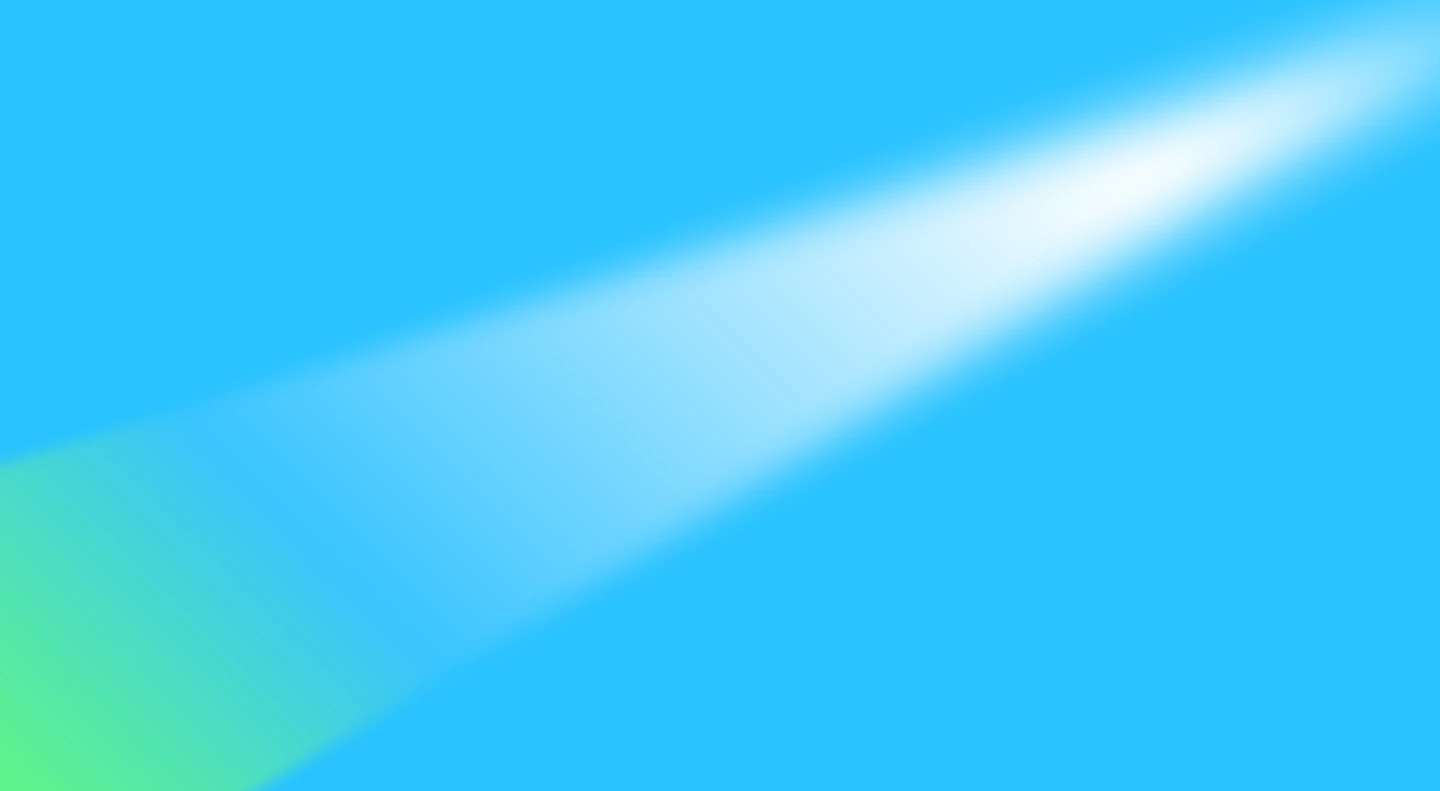
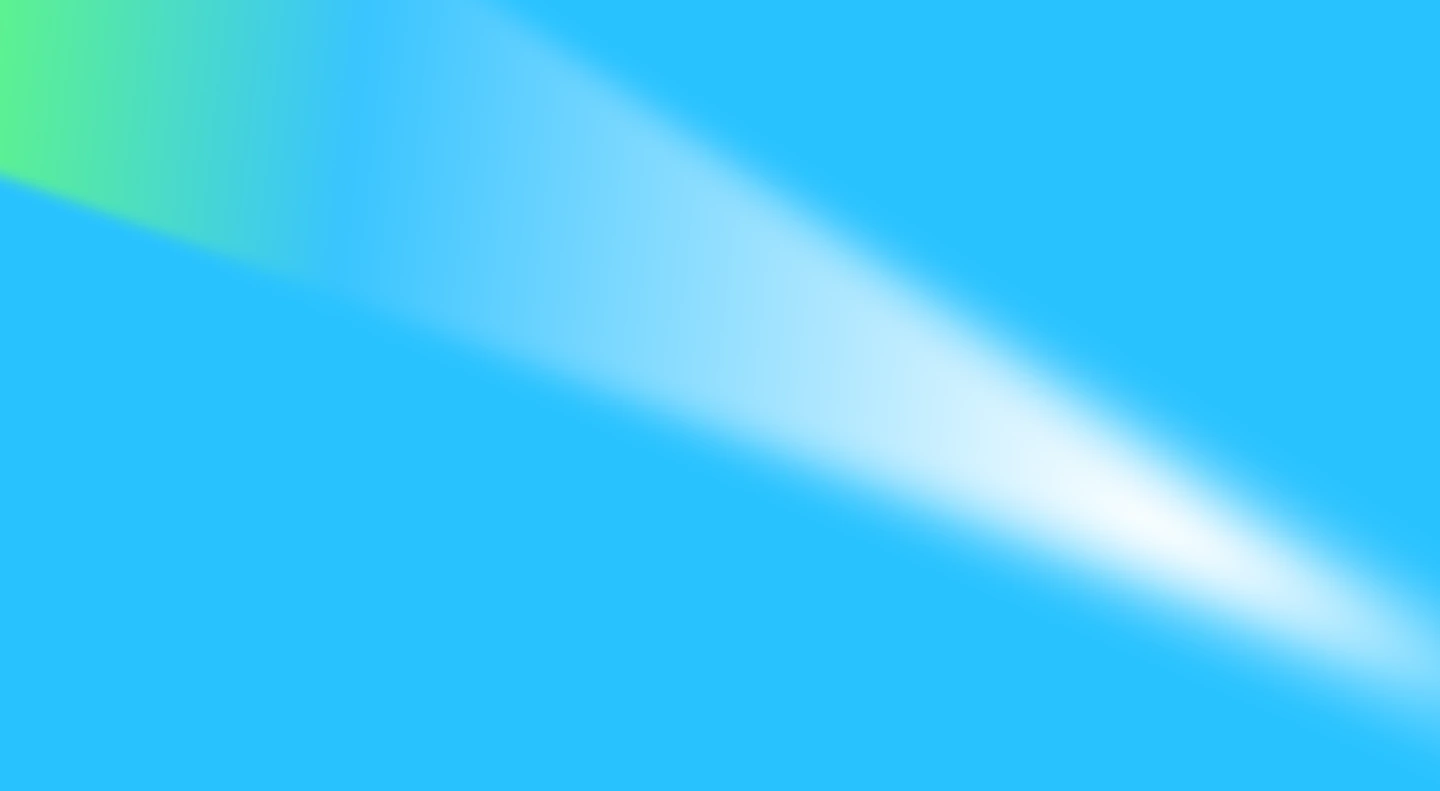
Swap to second background gradient after history section, tweak companies title

diff --git a/index.html b/index.html
@@ -55,6 +55,9 @@ a:focus-visible,button:focus-visible{outline:2px solid currentColor;outline-offs
 .intro{position:relative}
 /* Фирменный градиент первого экрана — фиксированный фон всего сайта */
 .page-bg{position:fixed;inset:0;z-index:-1;background:var(--blue) url(assets/hero-glow.webp) right top/cover no-repeat;pointer-events:none}
+/* второй градиент — подменяется, пока экран целиком закрыт белой подложкой истории */
+.page-bg.alt{background-image:url(assets/hero-glow-2.webp);opacity:0}
+.page-bg.alt.on{opacity:1}
 .hero{position:sticky;top:0;z-index:0;height:100vh;height:100svh;min-height:560px;color:var(--hero-ink,var(--navy));overflow:hidden;--cx:82%;--cy:56%;--r0:0px;--r1:0.1px}
 /* Старт: белый экран, градиент виден только «светом фонаря»; при скролле круг растёт до краёв */
 .hero-veil{position:absolute;inset:0;background:var(--white);-webkit-mask-image:radial-gradient(circle at var(--cx) var(--cy),transparent var(--r0),#000 var(--r1));mask-image:radial-gradient(circle at var(--cx) var(--cy),transparent var(--r0),#000 var(--r1))}
@@ -97,7 +100,7 @@ a:focus-visible,button:focus-visible{outline:2px solid currentColor;outline-offs
 .cmp{position:relative}
 .cmp-pin{position:sticky;top:0;height:100vh;min-height:720px;display:flex;align-items:center;overflow:hidden}
 .cmp-track{display:flex;gap:var(--g);padding:0 var(--m);will-change:transform}
-.cmp-title{flex:0 0 575px;height:560px;display:flex;flex-direction:column;justify-content:space-between;padding:32px 32px 32px 0;color:var(--white)}
+.cmp-title{flex:0 0 575px;height:560px;display:flex;flex-direction:column;justify-content:flex-start;gap:24px;padding:32px 32px 32px 0;color:var(--white)}
 .card{flex:0 0 385px;height:560px;border-radius:var(--r);background:var(--white);padding:32px;display:flex;flex-direction:column;justify-content:space-between;align-items:flex-end}
 .card .top{align-self:stretch;display:flex;flex-direction:column;gap:20px}
 .card .go,.slot .go{width:48px;height:48px;border:1.5px solid currentColor;border-radius:16px;display:grid;place-items:center;font-size:20px;line-height:1;transition:background .2s,color .2s}
@@ -220,6 +223,7 @@ a:focus-visible,button:focus-visible{outline:2px solid currentColor;outline-offs
 </head>
 <body>
 <div class="page-bg" aria-hidden="true"></div>
+<div class="page-bg alt" id="bgAlt" aria-hidden="true"></div>
 <svg width="0" height="0" style="position:absolute" aria-hidden="true"><symbol id="logo" viewBox="0 0 257 40"><g fill="currentColor"><g ><path d="M0 0.82H29.31V29.52H22.46V6.40H6.86V29.52H0.01L0 0.82Z"/><path d="M223.82 15.23V17.04H196.43C196.69 19.95 197.63 21.99 199.25 23.13C200.87 24.28 203.55 24.85 207.31 24.85C213.09 24.85 216.28 23.52 216.86 20.86H223.32C222.99 23.96 221.44 26.31 218.68 27.92C215.92 29.52 212.10 30.32 207.20 30.32C201.24 30.32 196.86 29.08 194.06 26.61C191.26 24.13 189.86 20.27 189.85 15.03C189.85 9.86 191.22 6.06 193.96 3.64C196.70 1.21 201.04 0.00 206.97 0.00C212.89 0.00 217.18 1.18 219.83 3.55C222.48 5.92 223.81 9.82 223.82 15.23ZM196.54 11.84H216.86C216.72 9.59 215.87 7.97 214.32 6.98C212.77 6.00 210.33 5.50 206.98 5.50C203.63 5.50 201.15 5.99 199.53 6.95C197.92 7.92 196.92 9.56 196.54 11.86V11.84Z"/><path d="M245.41 29.52H238.56V6.40H227.68V0.82H256.39V6.39H245.42L245.41 29.52Z"/><path d="M122.55 7.79C124.18 6.35 126.99 5.63 130.96 5.63C134.94 5.63 137.71 6.35 139.27 7.79C140.24 8.72 140.92 9.91 141.21 11.21H148.20C147.64 7.99 146.33 5.48 144.28 3.69C141.45 1.23 137.01 0.00 130.96 0.00C124.82 0.00 120.33 1.21 117.49 3.64C116.39 4.58 115.50 5.74 114.86 7.04L120.11 14.42C120.22 11.34 121.03 9.13 122.55 7.79ZM141.35 18.58C140.98 20.33 140.28 21.68 139.25 22.63C137.67 24.05 134.91 24.76 130.97 24.76C127.03 24.76 124.22 24.05 122.53 22.63C122.09 22.22 121.71 21.75 121.41 21.23L110.14 5.34C109.69 4.73 109.18 4.18 108.61 3.69C105.78 1.23 101.33 0 95.29 0C89.14 0 84.65 1.21 81.82 3.63C78.99 6.06 77.57 9.89 77.57 15.14C77.57 20.38 78.97 24.23 81.79 26.67C84.61 29.12 89.11 30.34 95.29 30.34C101.32 30.34 105.76 29.11 108.61 26.67C109.69 25.74 110.57 24.60 111.21 23.33L106.00 15.95C105.88 19.02 105.09 21.26 103.60 22.63C102.01 24.05 99.25 24.76 95.31 24.76C91.33 24.76 88.52 24.05 86.86 22.63C85.25 21.14 84.44 18.64 84.43 15.14C84.43 11.64 85.25 9.19 86.89 7.790C88.53 6.35 91.34 5.63 95.31 5.63C99.29 5.63 102.06 6.35 103.62 7.79C104.03 8.22 104.41 8.68 104.74 9.16L115.93 25H115.95C116.40 25.60 116.91 26.16 117.48 26.66C120.30 29.10 124.80 30.32 130.98 30.32C137.02 30.32 141.46 29.10 144.31 26.66C146.48 24.78 147.82 22.09 148.32 18.56L141.35 18.58Z"/><path d="M185.15 21.24C185.15 17.71 183.19 15.45 179.27 14.43C181.07 13.73 182.33 12.90 183.04 11.95C183.76 11.00 184.12 9.71 184.12 8.10C184.12 4.97 182.50 2.84 179.27 1.71C177.52 1.12 175.29 0.82 172.58 0.82H154.59V29.52H172.59C180.98 29.52 185.17 26.81 185.18 21.38C185.15 21.33 185.15 21.28 185.15 21.24ZM161.36 6.28H171.91C173.75 6.28 175.08 6.52 175.91 6.97C176.31 7.18 176.63 7.50 176.85 7.89C177.07 8.29 177.18 8.73 177.15 9.18C177.15 10.24 176.78 10.98 176.05 11.40C175.31 11.82 174.06 12.02 172.29 12.02H161.36V6.28ZM176.79 23.26C175.89 23.78 174.41 24.04 172.35 24.04H161.38V17.22H172.42C174.44 17.22 175.91 17.50 176.81 18.070C177.71 18.63 178.16 19.55 178.16 20.81C178.19 21.31 178.08 21.80 177.83 22.23C177.59 22.66 177.23 23.02 176.80 23.26H176.79Z"/><path d="M68.18 3.69C65.34 1.23 60.90 0.00 54.86 0.00C50.32 0.00 46.68 0.66 43.95 1.99V0.81H37.10V40H43.95V28.38C46.67 29.71 50.31 30.37 54.86 30.37C60.90 30.37 65.34 29.15 68.18 26.70C71.02 24.26 72.44 20.41 72.44 15.16C72.44 9.98 71.02 6.16 68.18 3.69ZM63.29 22.58C61.72 24.07 59.08 24.82 55.37 24.81C51.66 24.81 48.78 24.05 46.75 22.52C44.72 20.99 43.71 18.84 43.71 16.07V13.99C43.71 8.38 47.68 5.57 55.63 5.57C59.28 5.57 61.86 6.29 63.37 7.71C64.88 9.13 65.63 11.59 65.63 15.09C65.63 18.58 64.85 21.08 63.29 22.58Z"/></g></g></symbol><symbol id="logo-desc" viewBox="0 0 87 18"><g fill="currentColor">
 <path d="M4.6 0.0V5.9H3.7V0.7H1.0V5.9H0.1V0.0H4.6Z"/>
 <path d="M5.9 7.5V1.4H6.8V2.2H6.8C6.9 2.1 7.0 2.0 7.0 1.8C7.1 1.7 7.3 1.6 7.4 1.5C7.6 1.4 7.8 1.4 8.1 1.4C8.5 1.4 8.8 1.5 9.1 1.7C9.3 1.8 9.6 2.1 9.7 2.4C9.9 2.8 10.0 3.2 10.0 3.7C10.0 4.1 9.9 4.6 9.7 4.9C9.6 5.2 9.3 5.5 9.1 5.7C8.8 5.9 8.5 6.0 8.1 6.0C7.8 6.0 7.6 5.9 7.4 5.8C7.3 5.7 7.1 5.6 7.1 5.5C7.0 5.4 6.9 5.3 6.8 5.2H6.8V7.5H5.9ZM6.8 3.7C6.8 4.0 6.8 4.2 6.9 4.5C7.0 4.7 7.1 4.9 7.3 5.0C7.5 5.2 7.7 5.2 7.9 5.2C8.2 5.2 8.4 5.2 8.6 5.0C8.7 4.9 8.9 4.7 9.0 4.5C9.0 4.2 9.1 4.0 9.1 3.7C9.1 3.4 9.0 3.1 9.0 2.9C8.9 2.6 8.7 2.5 8.6 2.3C8.4 2.2 8.2 2.1 7.9 2.1C7.7 2.1 7.5 2.2 7.3 2.3C7.1 2.4 7.0 2.6 6.9 2.9C6.8 3.1 6.8 3.4 6.8 3.7Z"/>
@@ -550,6 +554,7 @@ const ideaScroll=()=>{
     c.style.opacity=k>0?1:0;
   });
 };
+const bgAlt=document.getElementById('bgAlt');
 const onScroll=()=>{
   ideaScroll();
   const q=heroScroll();
@@ -559,6 +564,9 @@ const onScroll=()=>{
   const h=hist.getBoundingClientRect();
   const overHist=h.top<28&&h.bottom>28;
   hdr.classList.toggle('on-light',overHist);
+  // Смена фонового градиента: только когда белая подложка истории закрывает весь экран
+  if(h.top<=0&&h.bottom>=innerHeight) bgAlt.classList.add('on');
+  else if(h.top>0) bgAlt.classList.remove('on');
   // на финальном экране шапку заменяет футер
   const ho=fs.active?1-clamp((fs.t-.5)/.3,0,1):1;
   hdr.style.setProperty('--hdr-op',ho.toFixed(3)); hdr.classList.toggle('gone',ho<.05);
